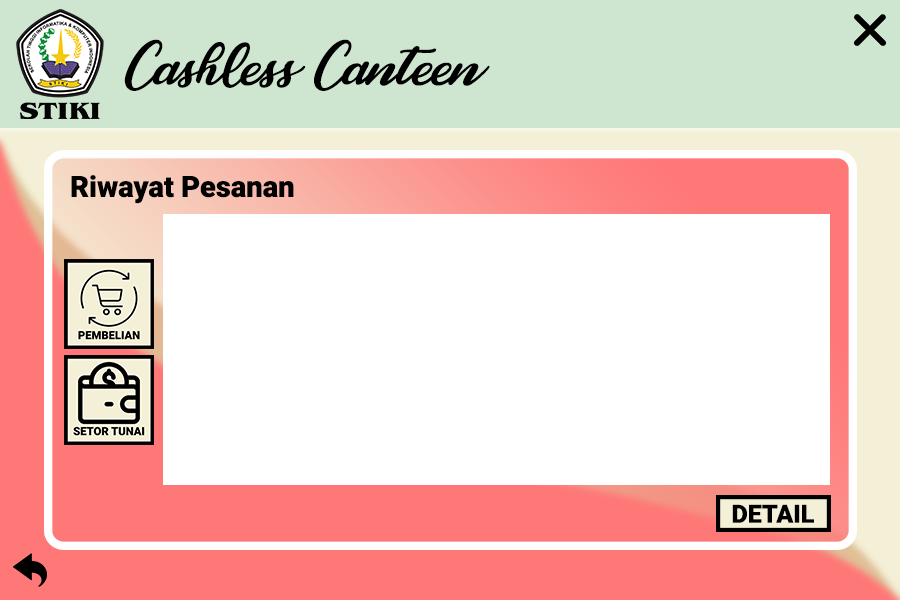
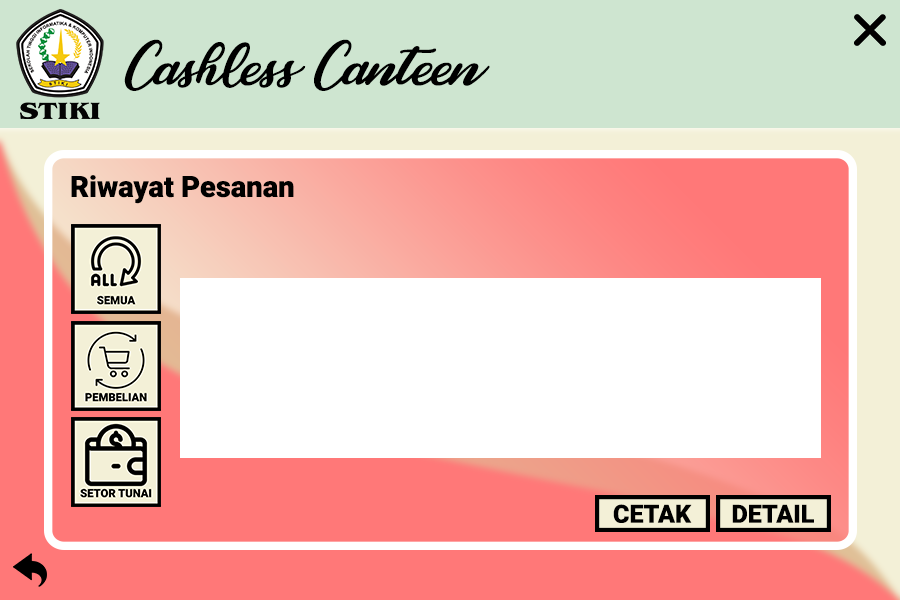
Update desain Riwayat Transaksi user

Changed region(s): [[0.0622, 0.33, 0.9333, 0.9]]

diff --git a/src/User/Riwayat_Transaksi.java b/src/User/Riwayat_Transaksi.java
@@ -110,16 +110,15 @@ public class Riwayat_Transaksi extends javax.swing.JFrame {
         setUndecorated(true);
         setResizable(false);
         getContentPane().setLayout(new org.netbeans.lib.awtextra.AbsoluteLayout());
-        getContentPane().add(tanggalTransaksi, new org.netbeans.lib.awtextra.AbsoluteConstraints(160, 180, 570, -1));
+        getContentPane().add(tanggalTransaksi, new org.netbeans.lib.awtextra.AbsoluteConstraints(180, 240, 650, -1));
 
-        jLabel1.setText("Transaksi");
         jLabel1.setCursor(new java.awt.Cursor(java.awt.Cursor.HAND_CURSOR));
         jLabel1.addMouseListener(new java.awt.event.MouseAdapter() {
             public void mouseClicked(java.awt.event.MouseEvent evt) {
                 jLabel1MouseClicked(evt);
             }
         });
-        getContentPane().add(jLabel1, new org.netbeans.lib.awtextra.AbsoluteConstraints(90, 220, -1, -1));
+        getContentPane().add(jLabel1, new org.netbeans.lib.awtextra.AbsoluteConstraints(71, 225, 89, 89));
 
         btn_pembelian.addMouseListener(new java.awt.event.MouseAdapter() {
             public void mouseClicked(java.awt.event.MouseEvent evt) {
@@ -151,16 +150,15 @@ public class Riwayat_Transaksi extends javax.swing.JFrame {
         ));
         jScrollPane1.setViewportView(tbl_riwayat);
 
-        getContentPane().add(jScrollPane1, new org.netbeans.lib.awtextra.AbsoluteConstraints(160, 210, 670, 280));
+        getContentPane().add(jScrollPane1, new org.netbeans.lib.awtextra.AbsoluteConstraints(170, 270, 670, 220));
 
-        jLabel2.setText("Cetak");
         jLabel2.setCursor(new java.awt.Cursor(java.awt.Cursor.HAND_CURSOR));
         jLabel2.addMouseListener(new java.awt.event.MouseAdapter() {
             public void mouseClicked(java.awt.event.MouseEvent evt) {
                 jLabel2MouseClicked(evt);
             }
         });
-        getContentPane().add(jLabel2, new org.netbeans.lib.awtextra.AbsoluteConstraints(640, 510, -1, -1));
+        getContentPane().add(jLabel2, new org.netbeans.lib.awtextra.AbsoluteConstraints(595, 495, 115, 36));
 
         btn_detail.setCursor(new java.awt.Cursor(java.awt.Cursor.HAND_CURSOR));
         btn_detail.addMouseListener(new java.awt.event.MouseAdapter() {
